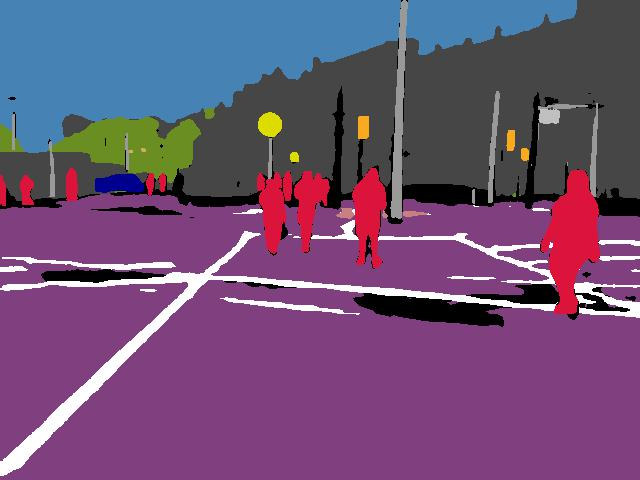
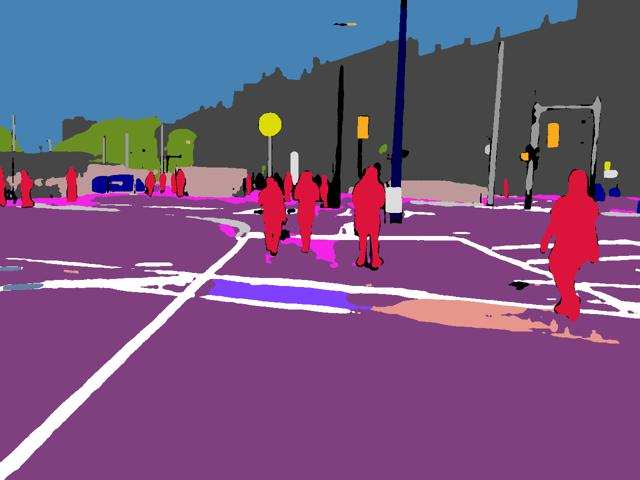
Plot instance counter

diff --git a/scripts/test_panoptic.py b/scripts/test_panoptic.py
@@ -1,5 +1,6 @@
 import argparse
 import time
+import json
 from collections import OrderedDict
 from functools import partial
 from os import path, mkdir
@@ -188,6 +189,7 @@ def test(model, dataloader, **varargs):
     make_panoptic = varargs["make_panoptic"]
     num_stuff = varargs["num_stuff"]
     save_function = varargs["save_function"]
+    cat_names = varargs["cat_names"]
 
     data_time = time.time()
     for it, batch in enumerate(dataloader):
@@ -219,7 +221,7 @@ def test(model, dataloader, **varargs):
 
                 # Save prediction
                 raw_pred = (sem_pred, bbx_pred, cls_pred, obj_pred, msk_pred)
-                save_function(raw_pred, panoptic_pred, img_info)
+                save_function(raw_pred, panoptic_pred, img_info, cat_names)
 
             # Log batch
             # if varargs["summary"] is not None and (it + 1) % varargs["log_interval"] == 0:
@@ -242,8 +244,19 @@ def ensure_dir(dir_path):
     except FileExistsError:
         pass
 
+def counter(arr):
+    arr = np.array(arr)
+    key = np.unique(arr)
+    result = {}
+    for k in key:
+        mask = (arr == k)
+        arr_new = arr[mask]
+        v = arr_new.size
+        result[k] = v
+    return result
 
-def save_prediction_image(_, panoptic_pred, img_info, out_dir, colors, num_stuff):
+
+def save_prediction_image(_, panoptic_pred, img_info, cat_names, out_dir, colors, num_stuff):
     msk, cat, obj, iscrowd = panoptic_pred
 
     img = Image.open(img_info["abs_path"])
@@ -258,6 +271,16 @@ def save_prediction_image(_, panoptic_pred, img_info, out_dir, colors, num_stuff
     out_path_ins = path.join(out_dir, img_name + "_ins.jpg")
     out_path_sem = path.join(out_dir, img_name + "_sem.jpg")
     # out_path_bg = path.join(out_dir, img_name + "_bg.jpg")
+
+    # === save panotic pred
+    ins_cat = np.delete(cat[cat > num_stuff], 0)
+    ins_count = counter(ins_cat-num_stuff)
+    ins_names = cat_names[num_stuff:]
+    ins_count_names = {}
+    for i, name in enumerate(ins_names):
+        ins_count_names[name] = ins_count[i] if i in ins_count else 0
+    js_path = path.join(out_dir, img_name + "_count.json")
+    # json.dump(ins_count_names, open(js_path, 'w'), indent=4)
 
     # Render semantic
     sem = cat[msk].numpy()
@@ -286,7 +309,9 @@ def save_prediction_image(_, panoptic_pred, img_info, out_dir, colors, num_stuff
     ins[crowd == 1] = 255
     ins_img = Image.fromarray(colors[ins])
     ins_img = ins_img.resize(img_info["original_size"][::-1])
-    ins_img.save(out_path_ins)
+    ins_img = ins_img.convert(mode='RGBA')
+    ins_img = Image.alpha_composite(ins_img, contours_img)
+    # ins_img.convert(mode="RGB").save(out_path_ins)
 
     # === Render semantic option 2
     # bg = cat[msk_bg].numpy()
@@ -299,14 +324,14 @@ def save_prediction_image(_, panoptic_pred, img_info, out_dir, colors, num_stuff
     # Compose final image and save
     out = Image.blend(img, sem_img, 0.5).convert(mode="RGBA")
     out = Image.alpha_composite(out, contours_img)
-    out.convert(mode="RGB").save(out_path)
+    # out.convert(mode="RGB").save(out_path)
     # === Render raw pan
     # out = Image.blend(img, sem_img, 1).convert(mode="RGBA")
     # out = Image.alpha_composite(out, contours_img)
     # out.convert(mode="RGB").save(out_path_pan_raw)
 
 
-def save_prediction_raw(raw_pred, _, img_info, out_dir):
+def save_prediction_raw(raw_pred, _, img_info, cat_names, out_dir):
     # Prepare folders and paths
     folder, img_name = path.split(img_info["rel_path"])
     img_name, _ = path.splitext(img_name)
@@ -371,7 +396,7 @@ def main(args):
             save_prediction_image, out_dir=args.out_dir, colors=palette, num_stuff=meta["num_stuff"])
     test(model, test_dataloader, device=device, summary=None,
          log_interval=config["general"].getint("log_interval"), save_function=save_function,
-         make_panoptic=panoptic_preprocessing, num_stuff=meta["num_stuff"])
+         make_panoptic=panoptic_preprocessing, num_stuff=meta["num_stuff"], cat_names=meta["categories"])
 
 
 if __name__ == "__main__":

diff --git a/scripts/plot.py b/scripts/plot.py
@@ -1,0 +1,67 @@
+import json
+from pathlib import Path
+import matplotlib.pyplot as plt
+# === dict of instance categories
+#     "animal--bird": 0,
+#     "animal--ground-animal": 0,
+#     "construction--flat--crosswalk-plain": 0,
+#     "human--person": 14,
+#     "human--rider--bicyclist": 0,
+#     "human--rider--motorcyclist": 0,
+#     "human--rider--other-rider": 0,
+#     "marking--crosswalk-zebra": 1,
+#     "object--banner": 0,
+#     "object--bench": 0,
+#     "object--bike-rack": 0,
+#     "object--billboard": 0,
+#     "object--catch-basin": 0,
+#     "object--cctv-camera": 0,
+#     "object--fire-hydrant": 0,
+#     "object--junction-box": 0,
+#     "object--mailbox": 0,
+#     "object--manhole": 0,
+#     "object--phone-booth": 0,
+#     "object--street-light": 2,
+#     "object--support--pole": 11,
+#     "object--support--traffic-sign-frame": 0,
+#     "object--support--utility-pole": 0,
+#     "object--traffic-light": 3,
+#     "object--traffic-sign--back": 1,
+#     "object--traffic-sign--front": 2,
+#     "object--trash-can": 0,
+#     "object--vehicle--bicycle": 0,
+#     "object--vehicle--boat": 0,
+#     "object--vehicle--bus": 0,
+#     "object--vehicle--car": 1,
+#     "object--vehicle--caravan": 0,
+#     "object--vehicle--motorcycle": 0,
+#     "object--vehicle--other-vehicle": 0,
+#     "object--vehicle--trailer": 0,
+#     "object--vehicle--truck": 0,
+#     "object--vehicle--wheeled-slow": 0
+
+
+if __name__ == '__main__':
+    out_dir = './data/outputs'
+    jsons = sorted(Path(out_dir).glob('*.json'))
+    plts = {
+        "human--person": [],
+        "object--support--pole": [],
+        "object--vehicle--car": []
+    }
+    for js in jsons:
+        with open(js) as js_file:
+            data = json.load(js_file)
+            for k, v in plts.items():
+                v.append(data[k])
+    # --- plot
+    f = plt.figure()
+    for k, v in plts.items():
+        plt.plot(range(1, len(v) + 1), v,
+                 linestyle='--', marker='o',
+                 label=k.split('--')[-1])
+    plt.xlabel('frame')
+    plt.ylabel('#instance')
+    plt.legend()
+    # plt.show()
+    f.savefig("ins_plot.pdf", bbox_inches='tight')

diff --git a/experiment.md b/experiment.md
@@ -1,12 +1,10 @@
 ## Experiment result
 
-**Inference time** on different resolutions and GPUs:
+**Inference time** on different resolutions and GPUs, with same setup: CUDA 10.1, PyTorch v1.1.0, Batch size as 1.
 
-Given shortest_size then upscale with same ratio, check `seamseg/data/transform.py ISSTestTransform._adjusted_scale()`
-
-|           | GeForce 940MX (s) | GTX 1080Ti |
-| --------- | ----------------- | ---------- |
-| 240, 320  | 0.829             |            |
-| 480, 640  | 1.312             |            |
-| 960, 1280 | 2.261             |            |
+|           | GeForce 940MX (s) | GTX 1070 (s) | GTX 1080Ti (s) |
+| --------- | ----------------- | ------------ | -------------- |
+| 240, 320  | 0.829             | 0.114        | 0.158          |
+| 480, 640  | 1.312             | 0.162        | 0.244          |
+| 960, 1280 | 2.261             | 0.259        | 0.209          |
 

diff --git a/README.md b/README.md
@@ -9,7 +9,10 @@ Main system requirements:
 * Linux with GCC 7 or 8
 * PyTorch v1.1.0
 ```bash
-pip install -r requirements.txt
+conda create -n pytorch110 python=3.7 -y
+conda activate pytorch110
+conda install pytorch==1.1.0 torchvision==0.3.0 cudatoolkit=10.0 -c pytorch
+pip install -r requirements.txt --no-cache-dir
 cd seamseg
 python setup.py develop
 ```
